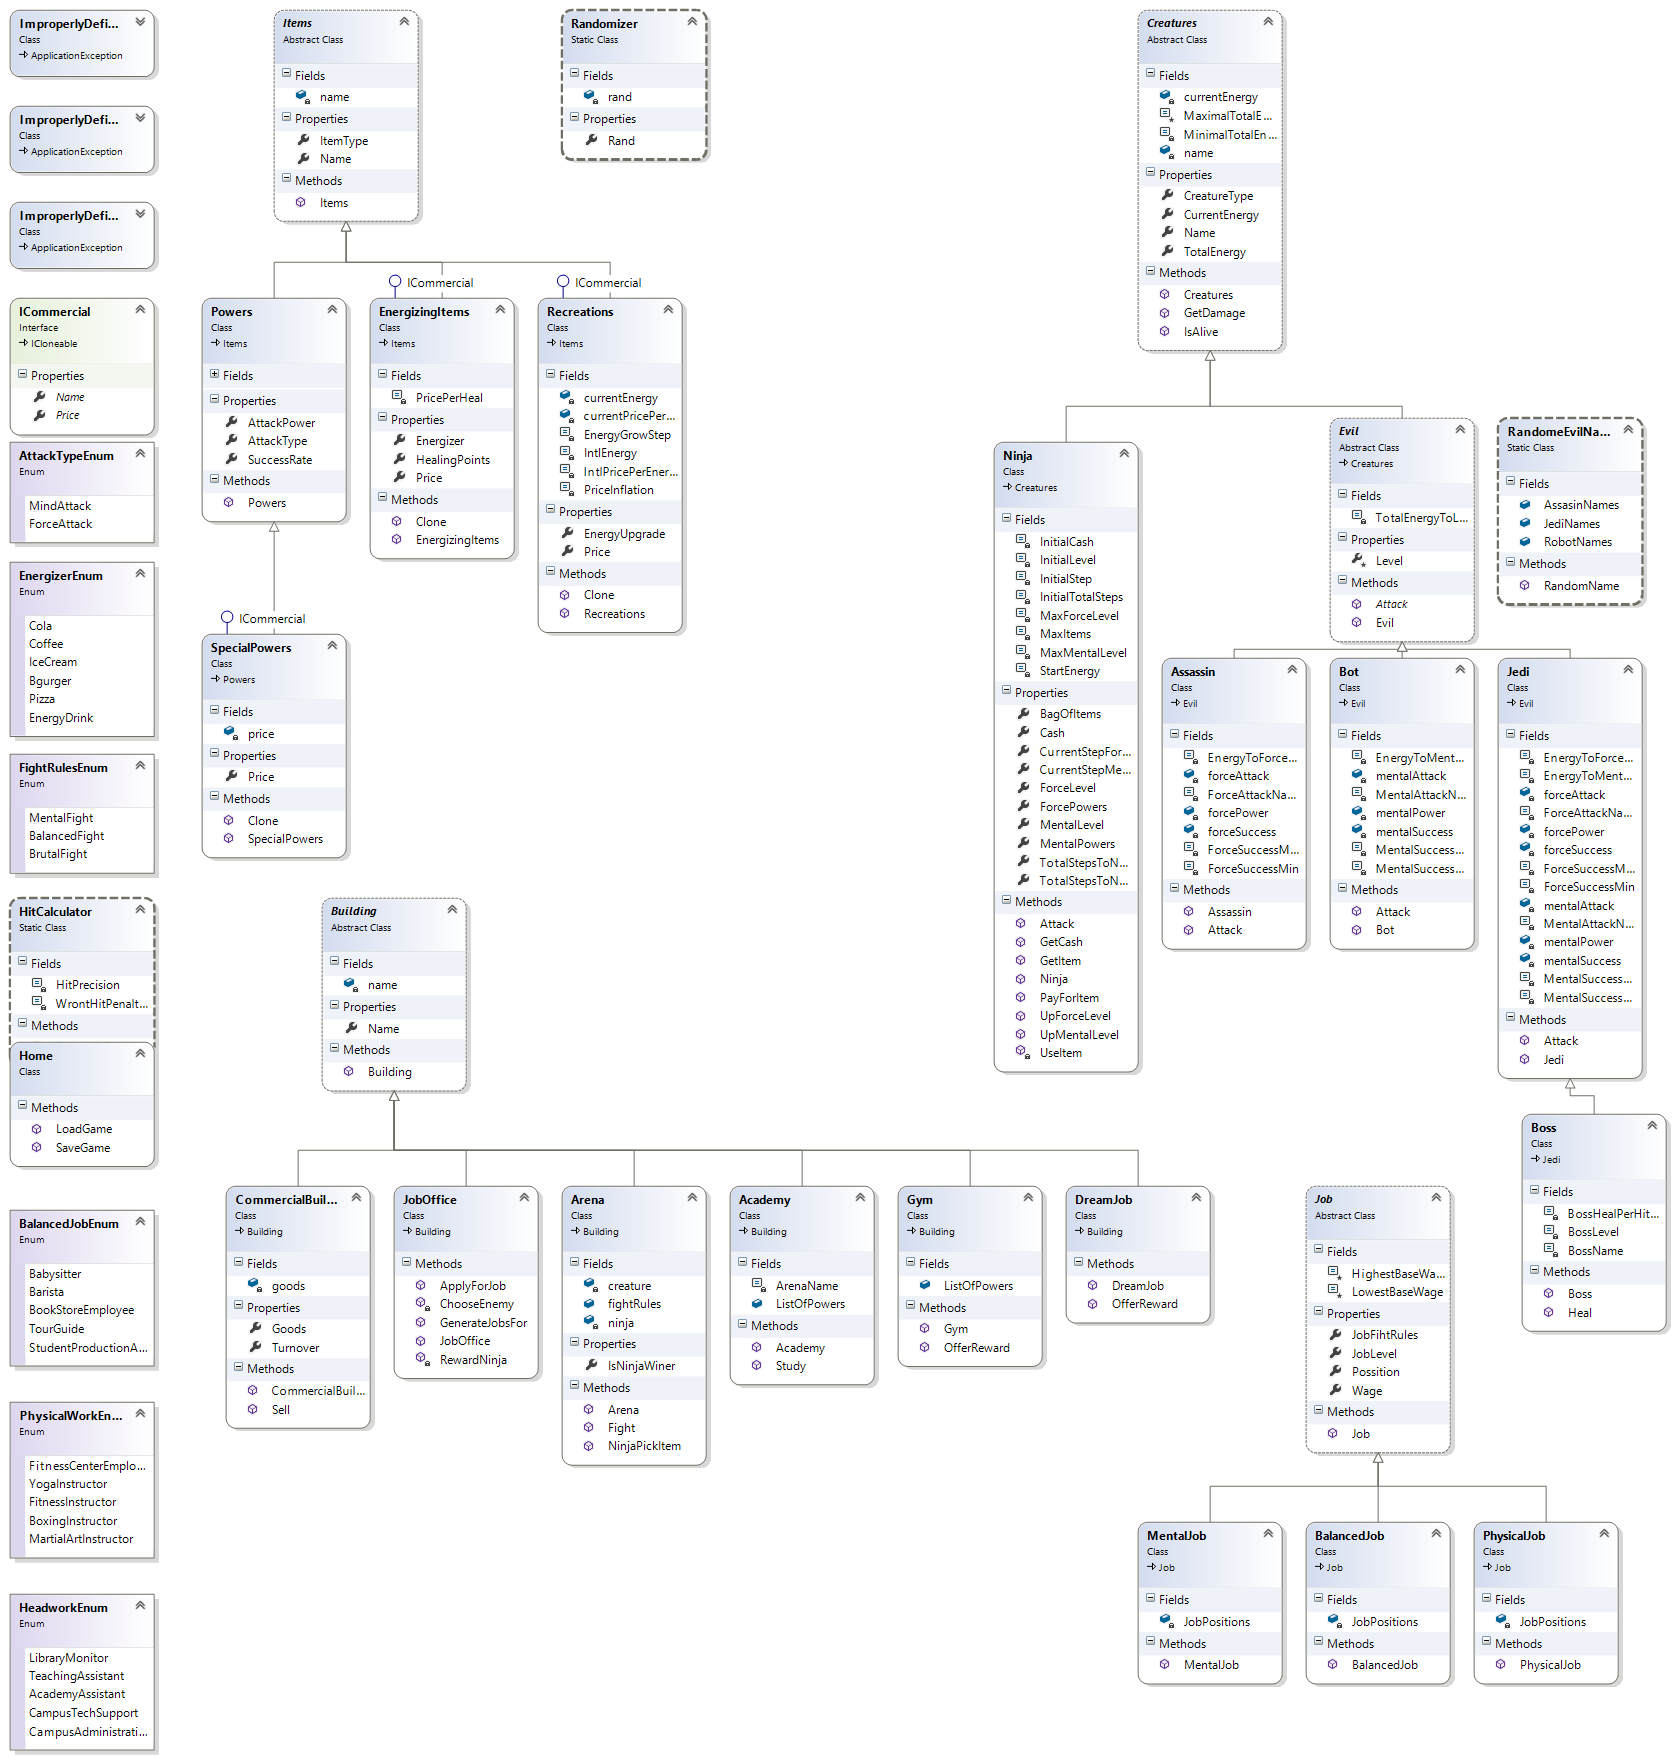
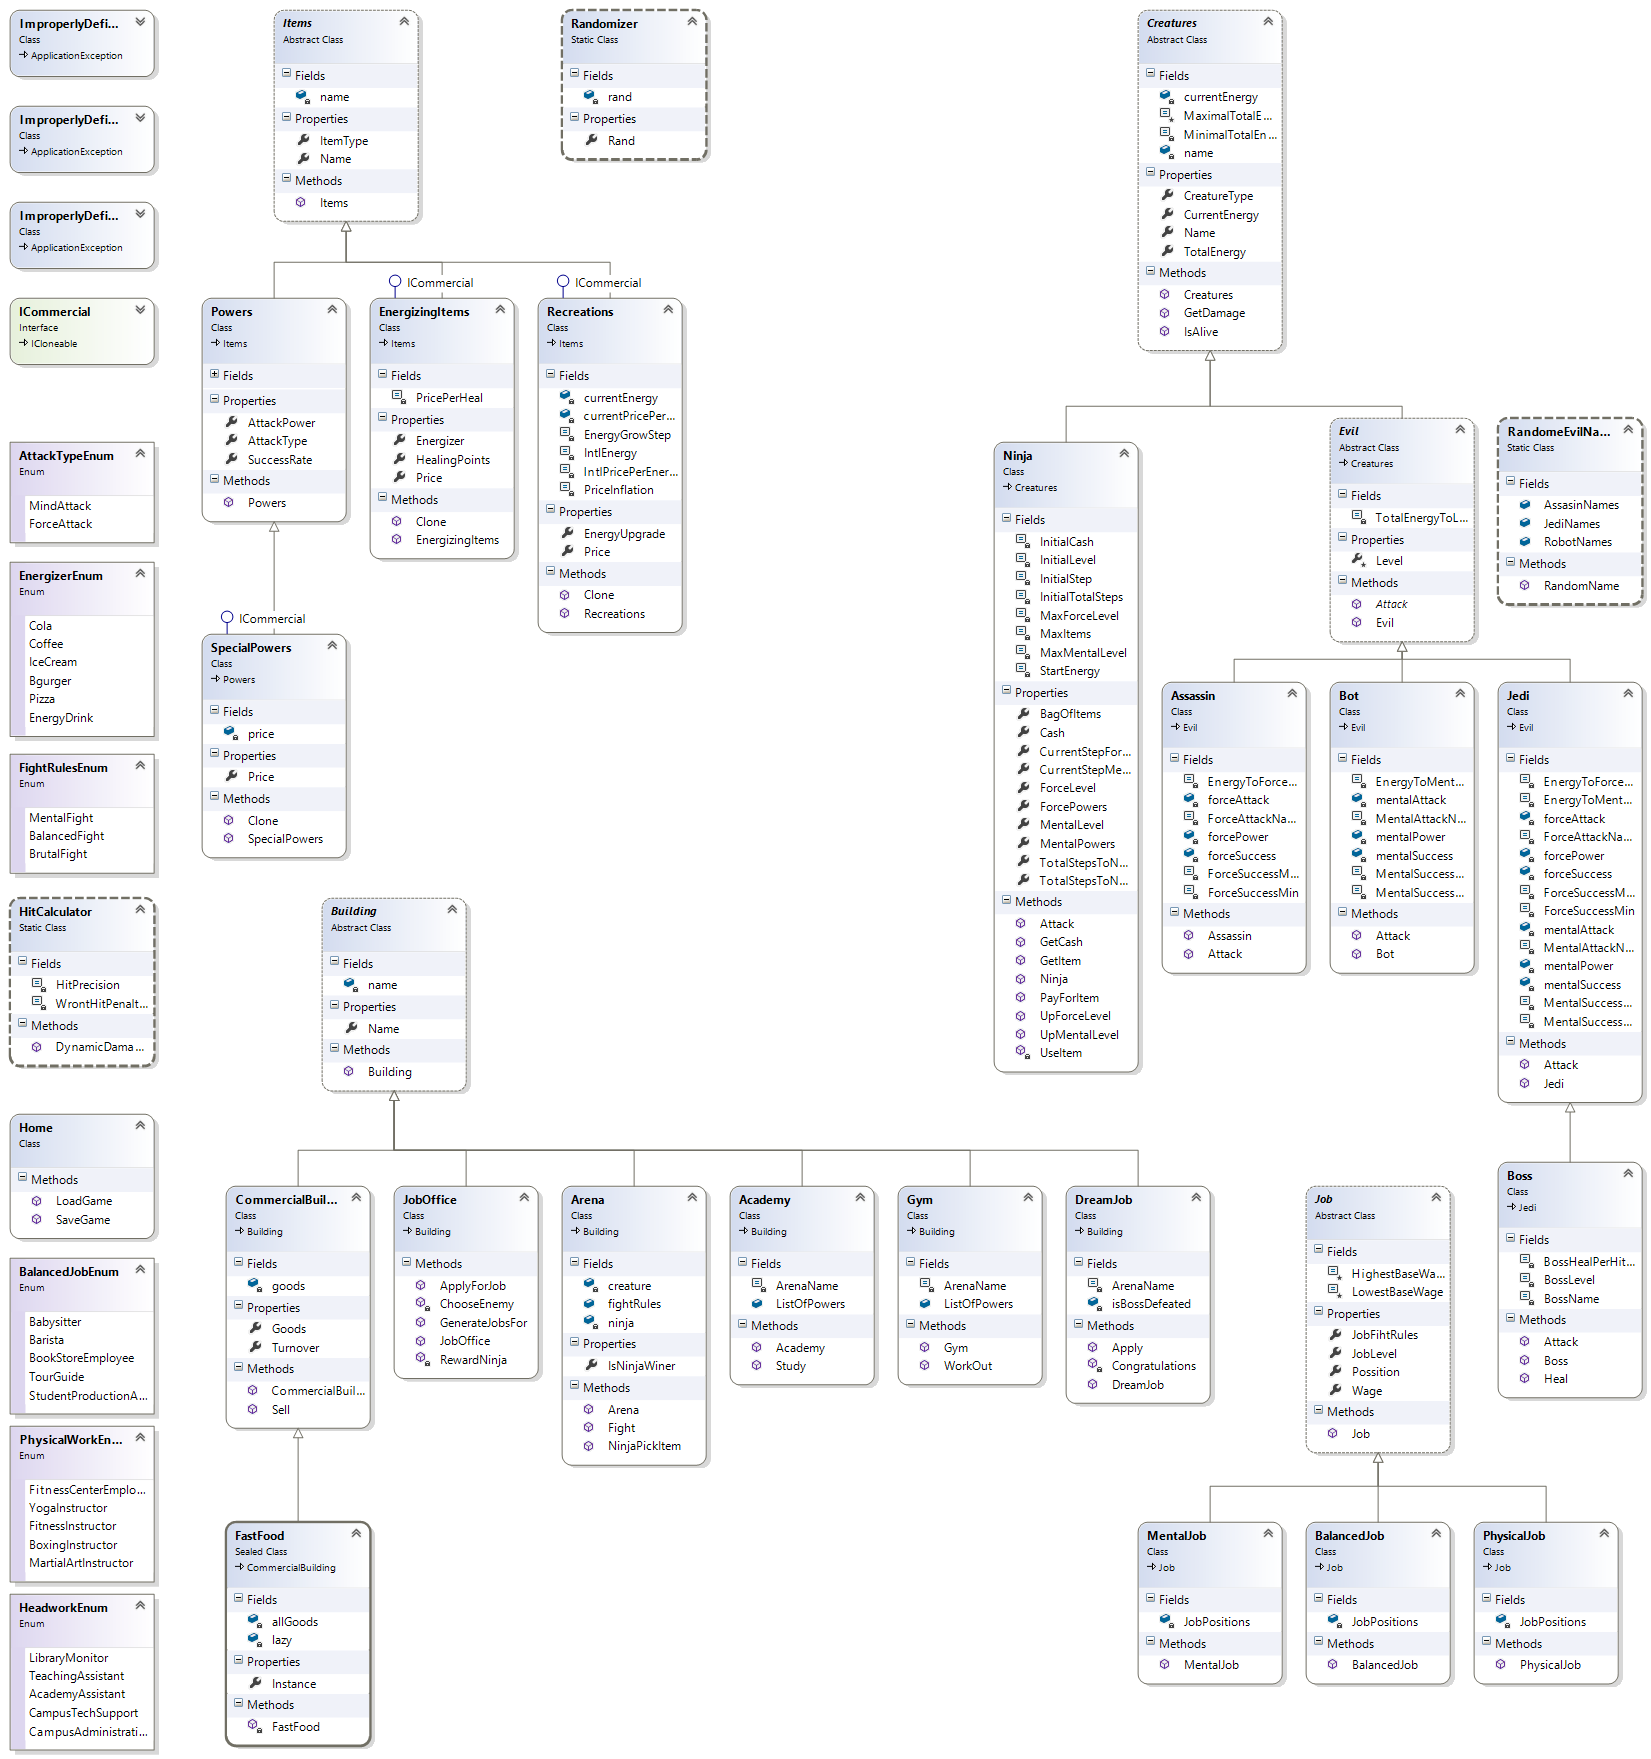
Boss.Attack() - overrided DreamJob class - completed w.o. Final Message Sealed Class FastFood  - created using Design Pattern Singleton

diff --git a/Game/NinjaRPG/NinjaWorld/Arena.cs b/Game/NinjaRPG/NinjaWorld/Arena.cs
@@ -7,7 +7,7 @@
     {
         private Evil creature;
         private Ninja ninja;
-        public FightRulesEnum fightRules;
+        private FightRulesEnum fightRules;
         
         /// <summary>
         /// Initializes a new instance of the <see cref="Arena"/> class.
@@ -29,10 +29,10 @@
         /// </summary>
         public bool IsNinjaWiner { get; private set; }
 
-        // Todo: Andrey = Pick ITEM ??
+        // Todo: Andrey = Pick ITEM ?? // for now leaving this hack
         public Items NinjaPickItem()
         {
-            return ninja.ForcePowers[0];
+            return this.ninja.ForcePowers[0];
         }
 
         /// <summary>
@@ -41,10 +41,10 @@
         /// <returns>return true if still fighting</returns>        
         public bool Fight()
         {
-            if (ninja.IsAlive())
+            if (this.ninja.IsAlive())
             {
-                int damage = ninja.Attack(this.NinjaPickItem(), fightRules);
-                creature.GetDamage(damage);
+                int damage = this.ninja.Attack(this.NinjaPickItem(), this.fightRules);
+                this.creature.GetDamage(damage);
             }
             else
             {
@@ -52,10 +52,10 @@
                 return false;
             }
 
-            if (creature.IsAlive())
+            if (this.creature.IsAlive())
             {
-                int damage = creature.Attack(this.fightRules);
-                ninja.GetDamage(damage);
+                int damage = this.creature.Attack(this.fightRules);
+                this.ninja.GetDamage(damage);
             }
             else
             {

diff --git a/Game/NinjaRPG/NinjaWorld/DreamJob.cs b/Game/NinjaRPG/NinjaWorld/DreamJob.cs
@@ -2,14 +2,43 @@
 {
     public class DreamJob : Building
     {
-        public DreamJob(string name)
-            : base(name)
+        private const string ArenaName = "Dream Job";
+        private static bool isBossDefeated = false;
+
+        public DreamJob()
+            : base(ArenaName)
         {
         }
 
-        public void OfferReward()
+        public void Apply(Ninja ninja)
         {
-            // TODO: Offer GAMEOVER + WIN!!!
+            if (!isBossDefeated)
+            {
+                Evil enemy = new Boss();
+
+                Arena fight = new Arena(string.Format("Going for the {0}", ArenaName), FightRulesEnum.BalancedFight, ninja, enemy);
+
+                fight.Fight();
+
+                if (fight.IsNinjaWiner)
+                {
+                    isBossDefeated = true;
+                    this.Congratulations();
+                }
+                else
+                {
+                    // ToDo: for Andrei: ??any string message for the looser
+                }
+            }
+            else
+            {
+                this.Congratulations();
+            }
+        }
+
+        private void Congratulations()
+        {
+            // ToDo: Andrey. Say:"Congratulation you complete the game"
         }
     }
 }

diff --git a/Game/NinjaRPG/NinjaWorld/Ninja.cs b/Game/NinjaRPG/NinjaWorld/Ninja.cs
@@ -140,6 +140,19 @@
             return false;
         }
 
+        public int Attack(Items item, FightRulesEnum rules)
+        {
+            var power = this.UseItem(item) as Powers;
+            if (power == null)
+            {
+                return 0;
+            }
+            else
+            {
+                return HitCalculator.DynamicDamageCalculator(power, rules);
+            }
+        }
+        
         private Items UseItem(Items item)
         {
             if (item is ICommercial)
@@ -149,23 +162,10 @@
                     this.CurrentEnergy += (item as EnergizingItems).HealingPoints;
                 }
 
-                this.BagOfItems.Remove(item as ICommercial);            
+                this.BagOfItems.Remove(item as ICommercial);
             }
 
             return item;
-        }
-
-        public int Attack(Items item, FightRulesEnum rules)
-        {
-            var power = this.UseItem(item) as Powers;
-            if(power == null)
-            {
-                return 0;
-            }
-            else
-            {
-                return HitCalculator.DynamicDamageCalculator(power, rules);
-            }
         }
     }
 }

diff --git a/Game/NinjaRPG/NinjaWorld/FastFood.cs b/Game/NinjaRPG/NinjaWorld/FastFood.cs
@@ -1,0 +1,34 @@
+namespace NinjaWorld
+{
+    using System;
+    using System.Collections.Generic;
+    using System.Linq;
+
+    /// <summary>
+    /// implementin singleton design pattern instance of FastFood class
+    /// </summary>
+    public sealed class FastFood : CommercialBuilding
+    {
+        private static readonly List<ICommercial> AllGoods = new List<ICommercial>()
+        {
+            new EnergizingItems(EnergizerEnum.Bgurger, "Big Max"),
+            new EnergizingItems(EnergizerEnum.Coffee, "LaVisio"),
+            new EnergizingItems(EnergizerEnum.Cola, "dr.Peter"),
+            new EnergizingItems(EnergizerEnum.EnergyDrink, "Doberman"),
+            new EnergizingItems(EnergizerEnum.IceCream, "Icegida"),
+            new EnergizingItems(EnergizerEnum.Pizza, "A la Programa")
+        }.OrderBy(en => en.Price).ToList();
+
+        private static readonly Lazy<FastFood> Lazy = new Lazy<FastFood>(() => new FastFood());
+
+        private FastFood()
+            : base("Fast Food", AllGoods)
+        {
+        }
+
+        public static FastFood Instance 
+        { 
+            get { return Lazy.Value; } 
+        }
+    }
+}

diff --git a/Game/NinjaRPG/NinjaWorld/Jedi.cs b/Game/NinjaRPG/NinjaWorld/Jedi.cs
@@ -37,11 +37,11 @@
         {
             if (Randomizer.Rand.Next(2) == 1)
             {
-                return HitCalculator.DynamicDamageCalculator(forceAttack, rules);
+                return HitCalculator.DynamicDamageCalculator(this.forceAttack, rules);
             }
             else
             {
-                return HitCalculator.DynamicDamageCalculator(mentalAttack, rules);
+                return HitCalculator.DynamicDamageCalculator(this.mentalAttack, rules);
             }
         }
     }

diff --git a/Game/NinjaRPG/NinjaWorld/Boss.cs b/Game/NinjaRPG/NinjaWorld/Boss.cs
@@ -13,9 +13,16 @@
         {
         }
 
-        public int Heal(int hitPower)
+        public void Heal(int hitPower)
         {
-            return hitPower / BossHealPerHitRation;
+            this.CurrentEnergy += hitPower / BossHealPerHitRation;
+        }
+
+        public override int Attack(FightRulesEnum rules)
+        {
+            int bossAttack = base.Attack(rules);
+            this.Heal(bossAttack);
+            return bossAttack;
         }
     }
 }

diff --git a/Game/NinjaRPG/NinjaWorld/Gym.cs b/Game/NinjaRPG/NinjaWorld/Gym.cs
@@ -28,7 +28,7 @@
 
         public void WorkOut(Ninja ninja)
         {
-            Evil enemy = new Assassin (ninja.MentalLevel + 1);
+            Evil enemy = new Assassin(ninja.MentalLevel + 1);
 
             Arena fight = new Arena(string.Format("Training {0}", ListOfPowers[ninja.MentalLevel]), FightRulesEnum.MentalFight, ninja, enemy);
 

diff --git a/Game/NinjaRPG/NinjaWorld/Bot.cs b/Game/NinjaRPG/NinjaWorld/Bot.cs
@@ -23,7 +23,7 @@
 
         public override int Attack(FightRulesEnum rules)
         {
-            return HitCalculator.DynamicDamageCalculator(mentalAttack, rules);
+            return HitCalculator.DynamicDamageCalculator(this.mentalAttack, rules);
         }
     }
 }

diff --git a/Game/NinjaRPG/NinjaWorld/Assassin.cs b/Game/NinjaRPG/NinjaWorld/Assassin.cs
@@ -23,7 +23,7 @@
 
         public override int Attack(FightRulesEnum rules)
         {
-            return HitCalculator.DynamicDamageCalculator(forceAttack, rules);
+            return HitCalculator.DynamicDamageCalculator(this.forceAttack, rules);
         }
     }
 }

diff --git a/Game/NinjaRPG/ConsoleInstantationTester/Instatest.cs b/Game/NinjaRPG/ConsoleInstantationTester/Instatest.cs
@@ -20,7 +20,6 @@
             Console.WriteLine(trd);
 
             Console.WriteLine(ninja.Cash);
-
         }
     }
 }
